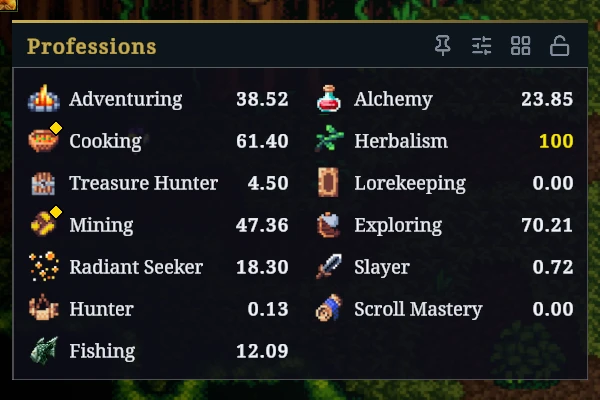
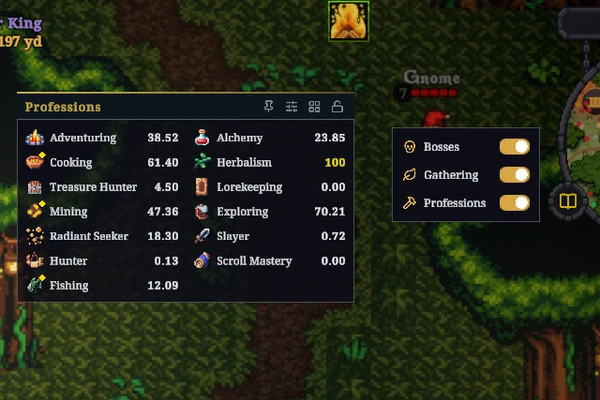
docs(website): show the Professions list beside the panel menu
- The card now shows the list style and the book's menu, so visitors see both
  parts of the release in one picture.

diff --git a/website/src/routes/mods/+page.svelte b/website/src/routes/mods/+page.svelte
@@ -55,7 +55,7 @@
       title: "Professions",
       text: "Shows your profession levels without opening the Skills window.",
       image: "/mod-pictures/card-professions.webp",
-      alt: "The Professions panel with the levels of all 13 professions, Cooking and Mining watched.",
+      alt: "The Professions panel listing all 13 profession levels, beside the minimap's panel menu with Bosses, Gathering and Professions switched on.",
     },
     {
       title: "Fatecharms",
